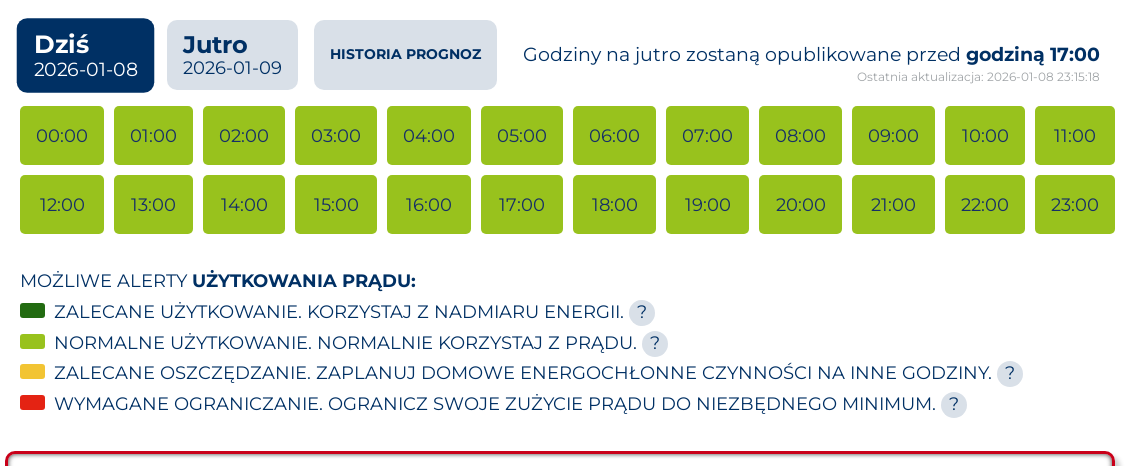
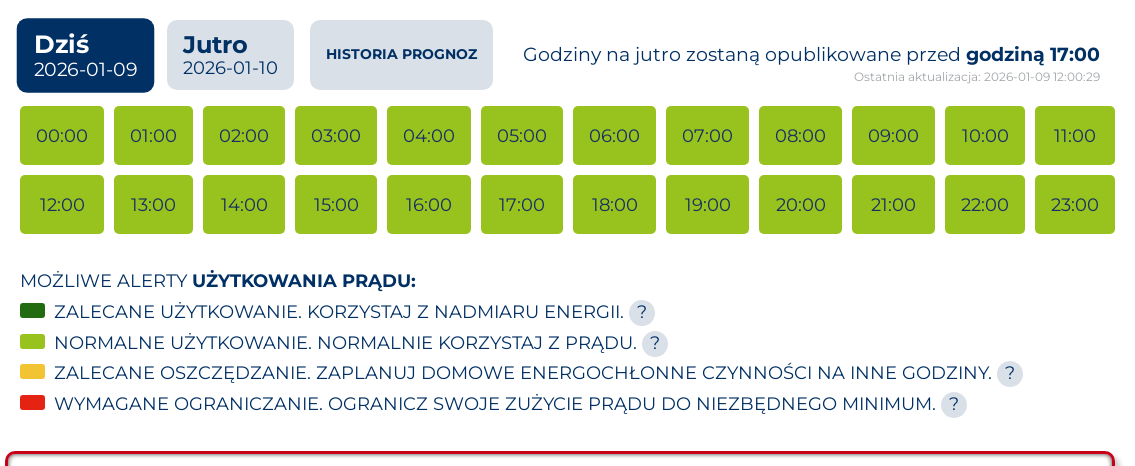
site: update 2026-01-09 12:00 UTC

Changed region(s): [[0.2159, 0.0601, 0.4626, 0.1803], [0.7401, 0.1502, 0.9559, 0.1803], [0.0925, 0.1202, 0.1233, 0.1502]]

diff --git a/site/html_02_raport_ze_stanu_teraz.html b/site/html_02_raport_ze_stanu_teraz.html
@@ -18,7 +18,7 @@
   </div>
 
   <section class="hero">
-    <div class="kicker">Ostatni odczyt: 09.01.2026 11:45</div>
+    <div class="kicker">Ostatni odczyt: 09.01.2026 13:00</div>
     <h1>Raport ze stanu teraz</h1>
     <p>
       Taryfy Tauron:
@@ -42,7 +42,7 @@
       <tbody>
         <tr>
           <th style="width:40%;">Czas odczytu</th>
-          <td>09.01.2026 11:45</td>
+          <td>09.01.2026 13:00</td>
         </tr>
         <tr>
           <th>Położenie</th>
@@ -62,19 +62,19 @@
       <tbody>
         <tr>
           <th style="width:40%;">Produkcja PV dzisiaj [kWh]</th>
-          <td>0.00</td>
+          <td>0.10</td>
         </tr>
         <tr>
           <th>Zużycie energii dzisiaj [kWh]</th>
-          <td>3.90</td>
+          <td>4.40</td>
         </tr>
         <tr>
           <th>Energia pobrana z sieci dzisiaj [kWh]</th>
-          <td>4.30</td>
+          <td>4.80</td>
         </tr>
         <tr>
           <th>Zużycie z sieci dzisiaj [kWh]</th>
-          <td>3.90</td>
+          <td>4.40</td>
         </tr>
         <tr>
           <th>Zużycie z własnego systemu dzisiaj [kWh]</th>
@@ -106,7 +106,7 @@
         </tr>
         <tr>
           <th>Moc z / do sieci [W]</th>
-          <td>297</td>
+          <td>295</td>
         </tr>
         <tr>
           <th>Moc z / do baterii [W]</th>
@@ -122,7 +122,7 @@
       <tbody>
         <tr>
           <th style="width:40%;">Stan naładowania baterii SOC [%]</th>
-          <td>92.0</td>
+          <td>91.0</td>
         </tr>
         <tr>
           <th>Tryb pracy baterii</th>
@@ -130,7 +130,7 @@
         </tr>
         <tr>
           <th>Dostępna energia w baterii [kWh]</th>
-          <td>9.70</td>
+          <td>9.60</td>
         </tr>
       </tbody>
     </table>
@@ -150,7 +150,7 @@
         </tr>
         <tr>
           <th>Napięcie [V]</th>
-          <td>234.58</td>
+          <td>234.47</td>
         </tr>
         <tr>
           <th>Prąd [A]</th>

diff --git a/site/html_03_g13_g14_porownanie.html b/site/html_03_g13_g14_porownanie.html
@@ -18,7 +18,7 @@
   </div>
 
   <section class="hero">
-    <div class="kicker">Ceny sprzedaży i zakupu energii oraz tryb SolaX (ostatni odczyt: 2026-01-09 11:45:00, strona wygenerowana 2026-01-09 11:45:13)</div>
+    <div class="kicker">Ceny sprzedaży i zakupu energii oraz tryb SolaX (ostatni odczyt: 2026-01-09 13:00:09, strona wygenerowana 2026-01-09 13:00:44)</div>
     <h1>Ceny energii i tryb SolaX</h1>
     <p>
       Taryfy Tauron:
@@ -44,15 +44,15 @@
       <tbody>
         <tr>
           <td>Cena sprzedaży energii (SELL)</td>
-          <td>1,138</td>
+          <td>1,237</td>
         </tr>
         <tr>
           <td>Cena zakupu energii w taryfie G13</td>
-          <td>0,900</td>
+          <td>0,690</td>
         </tr>
         <tr>
           <td>Cena zakupu energii w taryfie G14</td>
-          <td>1,248</td>
+          <td>1,347</td>
         </tr>
       </tbody>
     </table>
@@ -64,7 +64,7 @@
   <h2>Parametry sterujące falownikiem SolaX</h2>
   <p>
     Aktualny tryb/etykieta:
-    <strong>arbitrage/b/g13</strong><br/>
+    <strong>arbitrage/a/g13</strong><br/>
     Ostatni zestaw komend (surowy):<br/>
     <code>342=161;141=13;144=13;71=164;150=2;151=258;152=0;153=15127;154=161</code>
   </p>

diff --git a/site/html_01_tabele_wykresy_g14_today_tomorrow.html b/site/html_01_tabele_wykresy_g14_today_tomorrow.html
@@ -144,7 +144,7 @@
 <section class="hero">
   <div class="kicker">Dane</div>
   <h1>Taryfa — dzisiaj i jutro</h1>
-  <p class="muted">Strona wygenerowana: 2026-01-09 00:30:13</p>
+  <p class="muted">Strona wygenerowana: 2026-01-09 13:00:43</p>
   <p class="muted">Dane (dzisiaj) — ostatnia próbka: 2026-01-09 23:45:00</p>
   <p class="muted">Dane (jutro) — ostatnia próbka: brak danych</p>
 </section>
